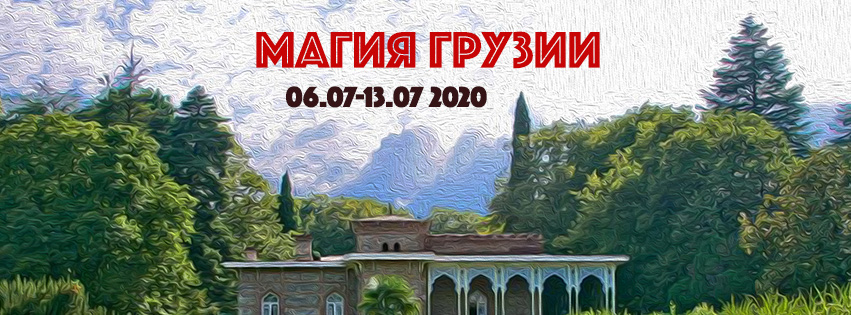
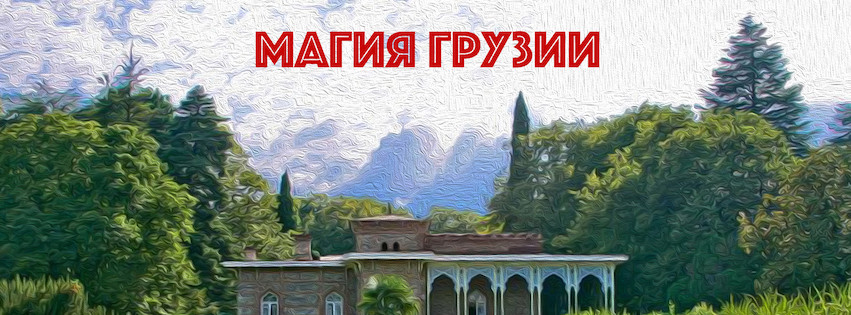
15.07-22.07

diff --git a/_includes/05.about.html b/_includes/05.about.html
@@ -4,7 +4,7 @@
             <div class="row">
                 <div class="col-lg-12 text-center">
                     <h2 class="section-heading">Программа</h2>
-                    <h3 class="section-subheading text-muted">Даты проведения тура с 6 по 13 июля 2020 года.</h3>
+                    <h3 class="section-subheading text-muted">Даты проведения тура с  по 22 июля 2020 года.</h3>
                 </div>
             </div>
             <div class="row">
@@ -16,7 +16,7 @@
                             </div>
                             <div class="timeline-panel">
                                 <div class="timeline-heading">
-                                    <h4>6 июля</h4>
+                                    <h4>15 июля</h4>
                                     <h4 class="subheading">Прибытие в аэропорт Тбилиси</h4>
                                 </div>
                                 <div class="timeline-body">
@@ -35,7 +35,7 @@
                             </div>
                             <div class="timeline-panel">
                                 <div class="timeline-heading">
-                                    <h4>7 июля</h4>
+                                    <h4>16 июля</h4>
                                 </div>
                                 <div class="timeline-body">
                                     <p class="text-muted">
@@ -59,7 +59,7 @@
                             </div>
                             <div class="timeline-panel">
                                 <div class="timeline-heading">
-                                    <h4>8 июля</h4>
+                                    <h4>17 июля</h4>
                                     <h4 class="subheading">Посещение поместья Цинандали. </h4>
                                 </div>
                                 <div class="timeline-body">
@@ -87,7 +87,7 @@
                             </div>
                             <div class="timeline-panel">
                                 <div class="timeline-heading">
-                                    <h4>9 июля</h4>
+                                    <h4>18 июля</h4>
                                 </div>
                                 <div class="timeline-body">
                                     <p class="text-muted">
@@ -109,7 +109,7 @@
                             </div>
                             <div class="timeline-panel">
                                 <div class="timeline-heading">
-                                    <h4>10 июля</h4>
+                                    <h4>19 июля</h4>
                                     <h4 class="subheading">Экскурсия и свободное время в Тбилиси.</h4>
                                 </div>
                                 <div class="timeline-body">
@@ -136,7 +136,7 @@
                             </div>
                             <div class="timeline-panel">
                                 <div class="timeline-heading">
-                                    <h4>11 июля</h4>
+                                    <h4>20 июля</h4>
                                 </div>
                                 <div class="timeline-body">
                                     <p class="text-muted">
@@ -155,7 +155,7 @@
                             </div>
                             <div class="timeline-panel">
                                 <div class="timeline-heading">
-                                    <h4>12 июля</h4>
+                                    <h4>21 июля</h4>
                                 </div>
                                 <div class="timeline-body">
                                     <p class="text-muted">
@@ -176,7 +176,7 @@
                             </div>
                             <div class="timeline-panel">
                                 <div class="timeline-heading">
-                                    <h4>13 июля</h4>
+                                    <h4>22 июля</h4>
                                     <h4 class="subheading">Теплое прощание</h4>
                                 </div>
                                 <div class="timeline-body">

diff --git a/_includes/07.contact.html b/_includes/07.contact.html
@@ -3,7 +3,6 @@
             <div class="row">
                 <div class="col-lg-12 text-center">
                     <h2 class="section-heading">Забронируй участие в туре</h2>
-                    <!-- <h3 class="section-heading text-muted">При бронировании тура до 19 апреля 2020 получите скидку 80 евро!</h3> -->
                     <h3 class="section-subheading text-muted">
                         Оставьте заявку и внесите предоплату 30% от стоимости тура в течение 3 дней чтобы забронировать место.
                     </h3>
@@ -13,7 +12,7 @@
             <div class="row">
                 <div class="col-lg-12 text-center">
                     <h3 class="section-heading"><br><br><br>Бронирование и оплата</h2>
-                    <h4 class="section-heading text-muted">Стоимость тура для одного участника составляет <b>790 евро</b>.</h4>
+                    <h4 class="section-heading text-muted">Стоимость тура для одного участника составляет <b>770 евро</b>.</h4>
                     <h5 class="section-subheading">Если Вы хотели бы поехать с членом семьи, другом/подругой,<br> свяжитесь с нами, возможны льготные ценовые предложения.</h5>
                 </div>
             </div>
@@ -35,7 +34,7 @@
             <div class="row">
                 <div class="col-lg-12 text-center">
                     <h3 class="section-subheading text-muted">
-                        <a class="button" href="https://www.skyscanner.net/transport/flights/tll/tbs/200706/200713/?adults=1&cabinclass=economy&rtn=1#results" target='_blank'>Найти авиабилеты до Тбилиси &#9992;</a>
+                        <a class="button" href="https://www.skyscanner.net/transport/flights/tll/tbs/200715/200722/?adults=1&cabinclass=economy&rtn=1#results" target='_blank'>Найти авиабилеты до Тбилиси &#9992;</a>
                         <br>
                     </h3>
                 </div>

diff --git a/_includes/02.services.html b/_includes/02.services.html
@@ -18,7 +18,7 @@
                         <i class="fa fa-circle fa-stack-2x text-primary"></i>
                         <i class="fa fa-calendar fa-stack-1x fa-inverse"></i>
                     </span>
-                    <h4 class="service-heading">06.07-13.07 2020, 7 ночей</h4>
+                    <h4 class="service-heading">15.07-22.07 2020, 7 ночей</h4>
                     <p class="text-muted"></p>
                 </div>
                 <div class="col-md-4">
